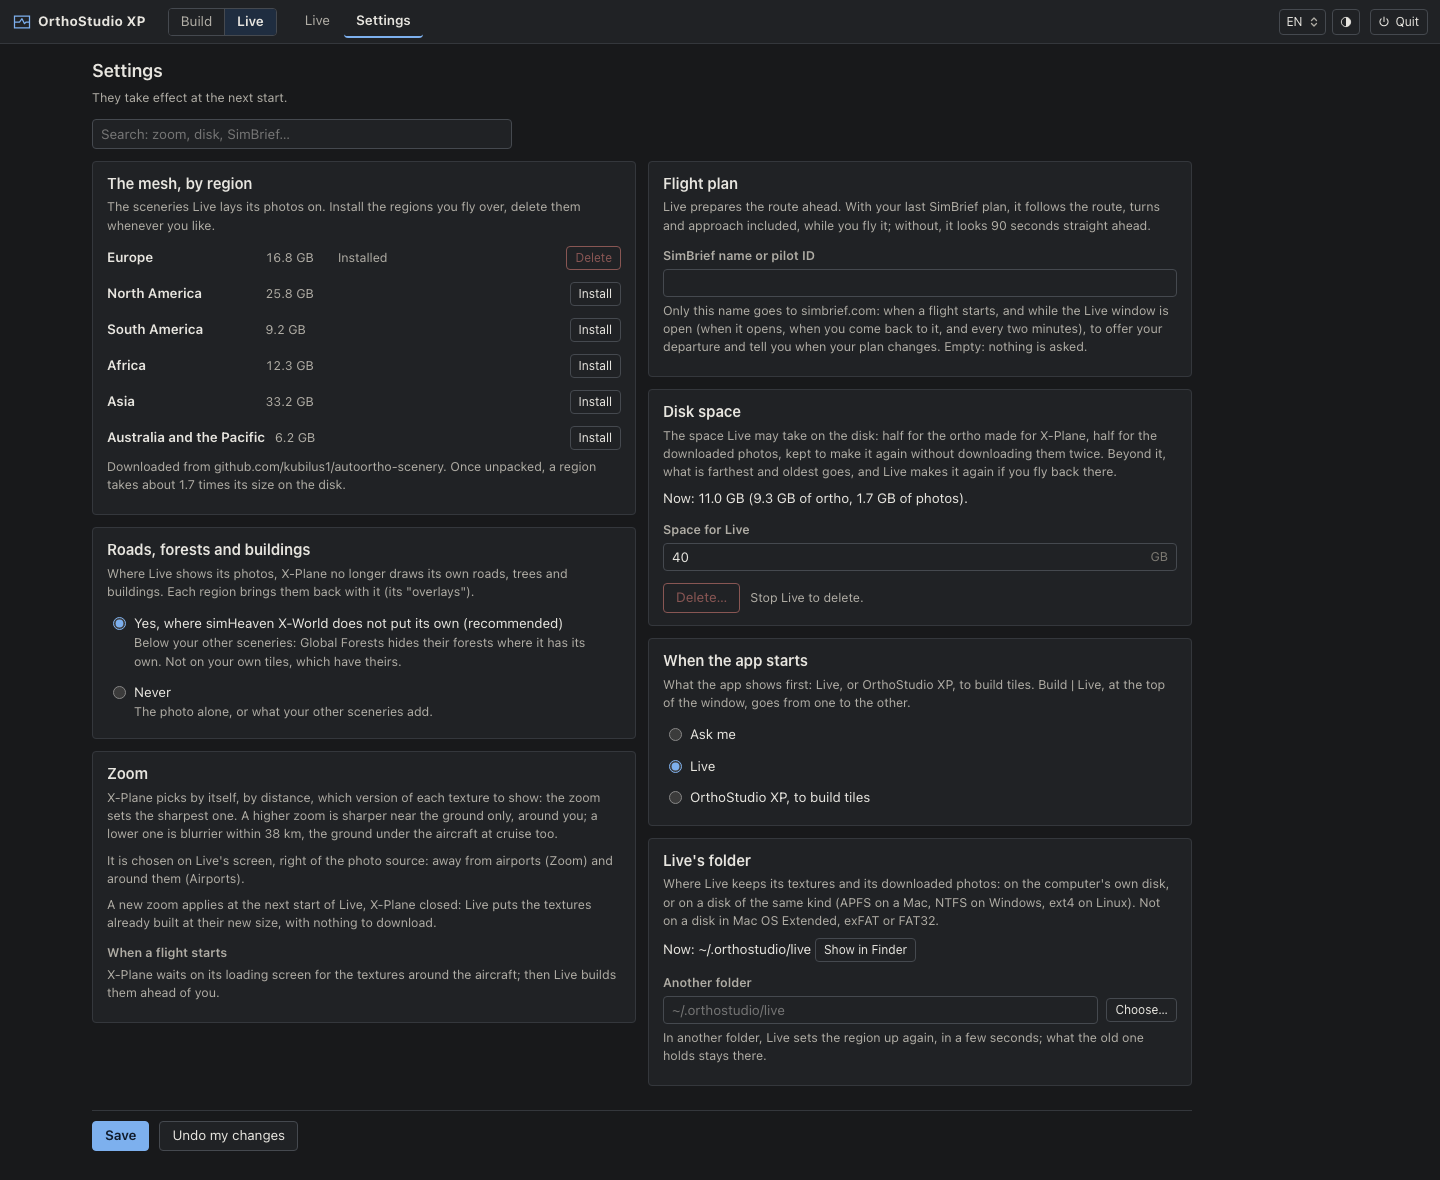
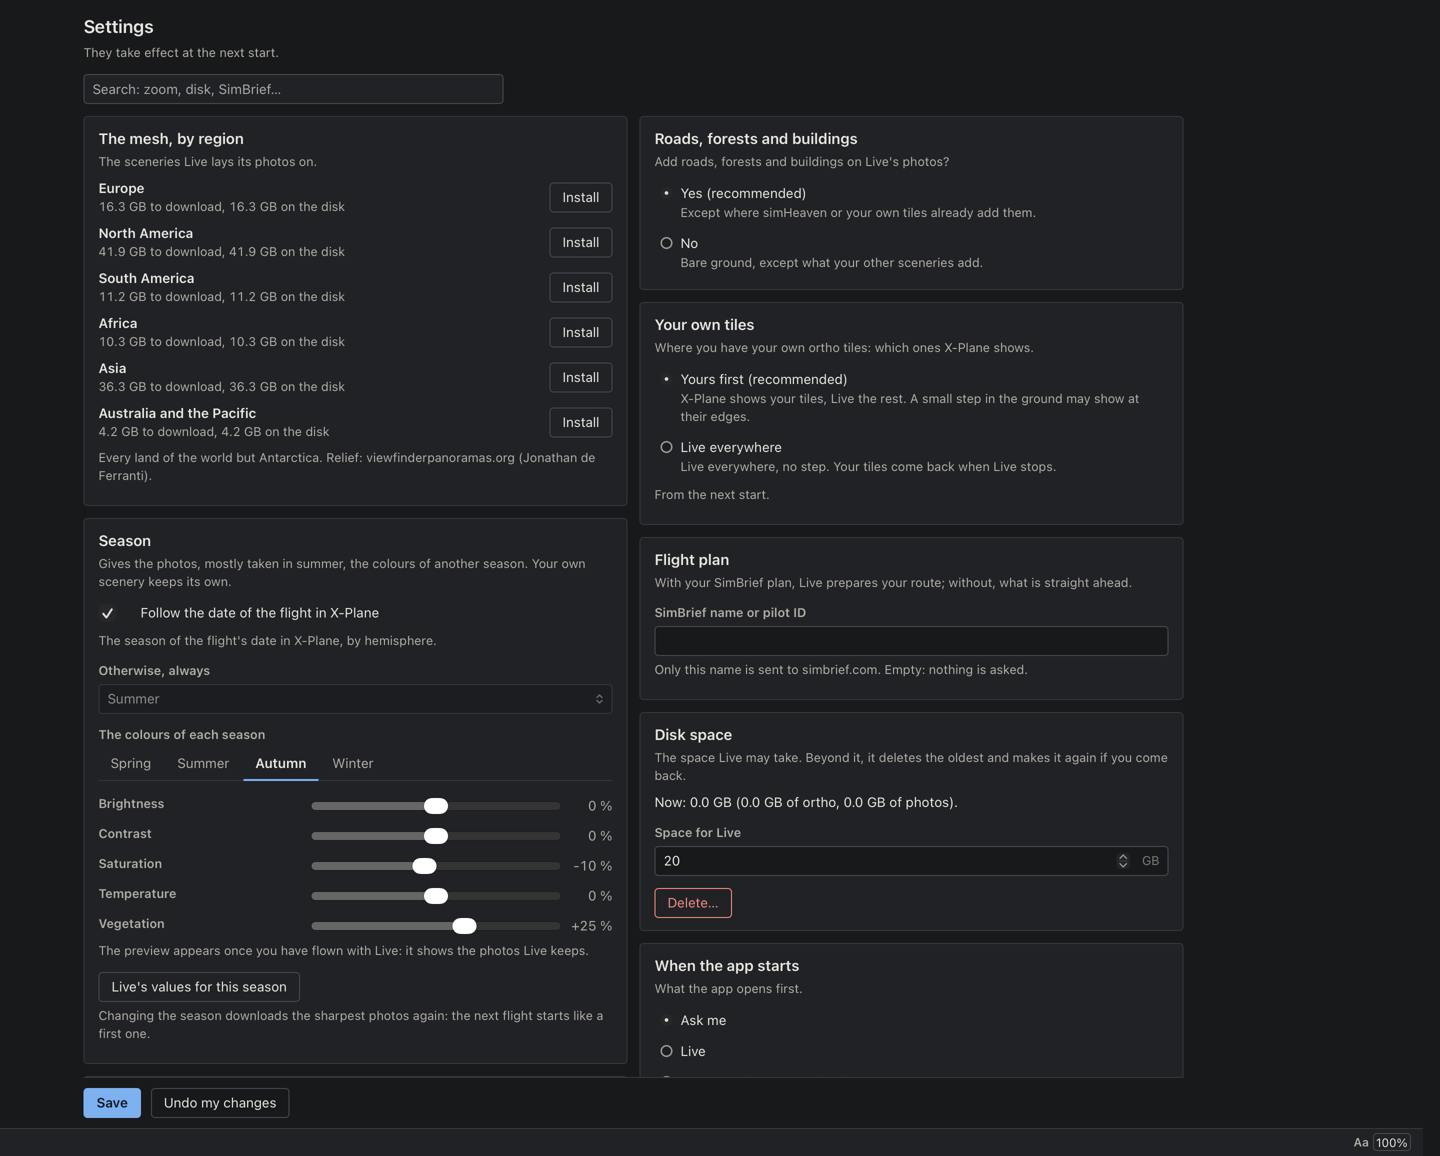
OrthoStudio XP 2.0.0: the guides describe Live's own mesh, its sizes and its disk space as they are

diff --git a/src/orthostudio/__init__.py b/src/orthostudio/__init__.py
@@ -4,7 +4,7 @@
 
 import time as _time
 
-__version__ = "2.0.0rc2"
+__version__ = "2.0.0"
 
 STARTED_AT = _time.time()
 """When this process reached OrthoStudio XP's own code, Python's own start behind it: what a start

diff --git a/docs/how-it-works.md b/docs/how-it-works.md
@@ -971,7 +971,7 @@ downloads its image pieces again.
 From 2.0, OrthoStudio XP has a second way to get ortho in X-Plane: OrthoStudio XP Live
 downloads the imagery while you fly, as AutoOrtho and XPME do, with no tile to build first, but
 with no virtual disk between X-Plane and its textures: it builds them beside X-Plane as ordinary
-files, so X-Plane waits only on its loading screen at a flight's start, never in flight. At its
+files, so X-Plane waits only while a flight or a new location loads, never while you fly. At its
 first start the app asks what you want to do, build your tiles or fly now with Live, and remembers
 the answer; both are in its one window, Build | Live at the top. Its full guide, with a measured
 comparison with XPME and AutoOrtho and why it has no zoom by flight level, prefetch or waiting
@@ -991,8 +991,8 @@ For a flight:
    pauses X-Plane there, with its own loading window, until the ground is built.
 4. Quit X-Plane, then click Stop: Live takes its scenery and its small plugin out of X-Plane.
 
-Live lays its photos on AutoOrtho's mesh, which it installs by region from its Settings tab (Europe,
-North America...). Your own tiles come first: where you built one, X-Plane shows it, and Live
+Live lays its photos on its own mesh of the world, which it installs by region from its Settings
+tab (Europe, North America...). Your own tiles come first: where you built one, X-Plane shows it, and Live
 downloads nothing there.
 
 What it keeps is in its own folder, `~/.orthostudio/live` unless its settings name another, apart
@@ -1002,11 +1002,11 @@ from the data folder:
 ~/.orthostudio/live/
   pack/            the scenery X-Plane reads while Live runs (z_osxp_live in Custom Scenery)
   chunks.sqlite    the imagery downloaded, kept so as not to download it twice
-  regions/         AutoOrtho's regions Live installed (the mesh), 6 to 33 GB each
+  regions/         the mesh's regions Live installed, 4 to 42 GB each
   overlays/        the roads, forests and buildings of Live's squares
 ```
 
-The textures and the imagery share one disk space, 40 GB by default, set in Live's Settings tab:
+The textures and the imagery share one disk space, 20 GB by default, set in Live's Settings tab:
 past it, Live makes the textures seen longest ago coarser and drops the imagery used longest ago.
 The same tab deletes the textures (built again when flown over) or the imagery (downloaded again
 when needed), and each region has its own Delete. `enabled = false` in `~/.orthostudio/live.toml`

diff --git a/docs/live.md b/docs/live.md
@@ -37,8 +37,8 @@ ground is aerial imagery. The difference is where it sits.
   it. Live stands beside X-Plane: it builds the textures before X-Plane asks for them and puts them
   on the disk as ordinary files. There is nothing to install for it, no kernel extension, no
   driver.
-- **X-Plane never waits in flight.** It waits only on its loading screen at a flight's start, until
-  the ground it shows first is built. In flight a texture that comes late is shown a little blurry,
+- **X-Plane never waits while you fly.** It waits only while a flight or a new location chosen in
+  flight loads, until the ground it shows first is built. In flight a texture that comes late is shown a little blurry,
   and sharper at the next look.
 - **If Live stops, X-Plane flies on** over what is on the disk. Nothing is pulled from under it.
 - **Light on the computer.** Live took about a third of one processor core in flight, a quarter of
@@ -179,7 +179,7 @@ itself. Prepare brings the map to the departure, as close as a flight's start.
 disk space (with what the textures and the imagery take, and a button to delete either), what the
 app opens on, and Live's folder. They apply with Save, at the next start.
 
-![Live's Settings tab: the regions of the mesh with Install and Delete, the roads, forests and buildings, the zoom, the flight plan, the disk space and Live's folder](images/live/settings.png)
+![Live's Settings: the mesh by region with what each downloads and an Install button, the season and its sliders, roads and forests, your own tiles, the flight plan, the disk space and what the app opens first](images/live/settings.png)
 
 ## The zoom
 
@@ -438,8 +438,8 @@ To switch Live off, put `enabled = false` in `live.toml`, in OrthoStudio XP's ow
 
 ## Limits
 
-- Only where AutoOrtho has a mesh: the six regions cover the land of the planet, a few islands
-  excepted.
+- Only where a region is installed: the six regions cover all the land of the planet but
+  Antarctica.
 - On Linux, a new location chosen in flight waits too, but without Live's loading window over
   X-Plane: `LogLive.txt` says the wait.
 - Flown with X-Plane 12 on a Mac and on Windows; not yet on Linux.

diff --git a/README.md b/README.md
@@ -16,7 +16,7 @@ and checked automatically at every release.
 | Build your tiles: **OrthoStudio XP** | Fly now: **OrthoStudio XP Live** |
 |---|---|
 | ![The Plan page: the map of Europe, the tiles already in X-Plane outlined in green over the Alps, three tiles chosen in blue near Paris with a sharper zone drawn over them in orange, and beside it the first of the four steps](docs/images/plan.png) | ![Live's window in flight near Toulouse: the map with the aircraft and the textures built around it, coloured by how sharp they are; beside it the state, the flight and the textures](docs/images/live/flight.png) |
-| Choose the regions you fly over and build them once, at the best quality: nothing to download in flight, your tiles stay on your disk. It takes computing time and disk space. | Choose a flight anywhere: the imagery is downloaded while you fly, ahead of the aircraft, with no tiles to build. X-Plane never waits in flight. It needs the internet, and AutoOrtho's mesh of the regions you fly over, installed from the app. |
+| Choose the regions you fly over and build them once, at the best quality: nothing to download in flight, your tiles stay on your disk. It takes computing time and disk space. | Choose a flight anywhere: the imagery is downloaded while you fly, ahead of the aircraft, with no tiles to build. X-Plane never waits in flight. It needs the internet, and the mesh of the regions you fly over, installed from the app. |
 | [The guide to building tiles](docs/build.md) | [The guide to flying with Live](docs/live.md) |
 
 Both at once: build your tiles where you want them (your airport, your region), and Live takes
